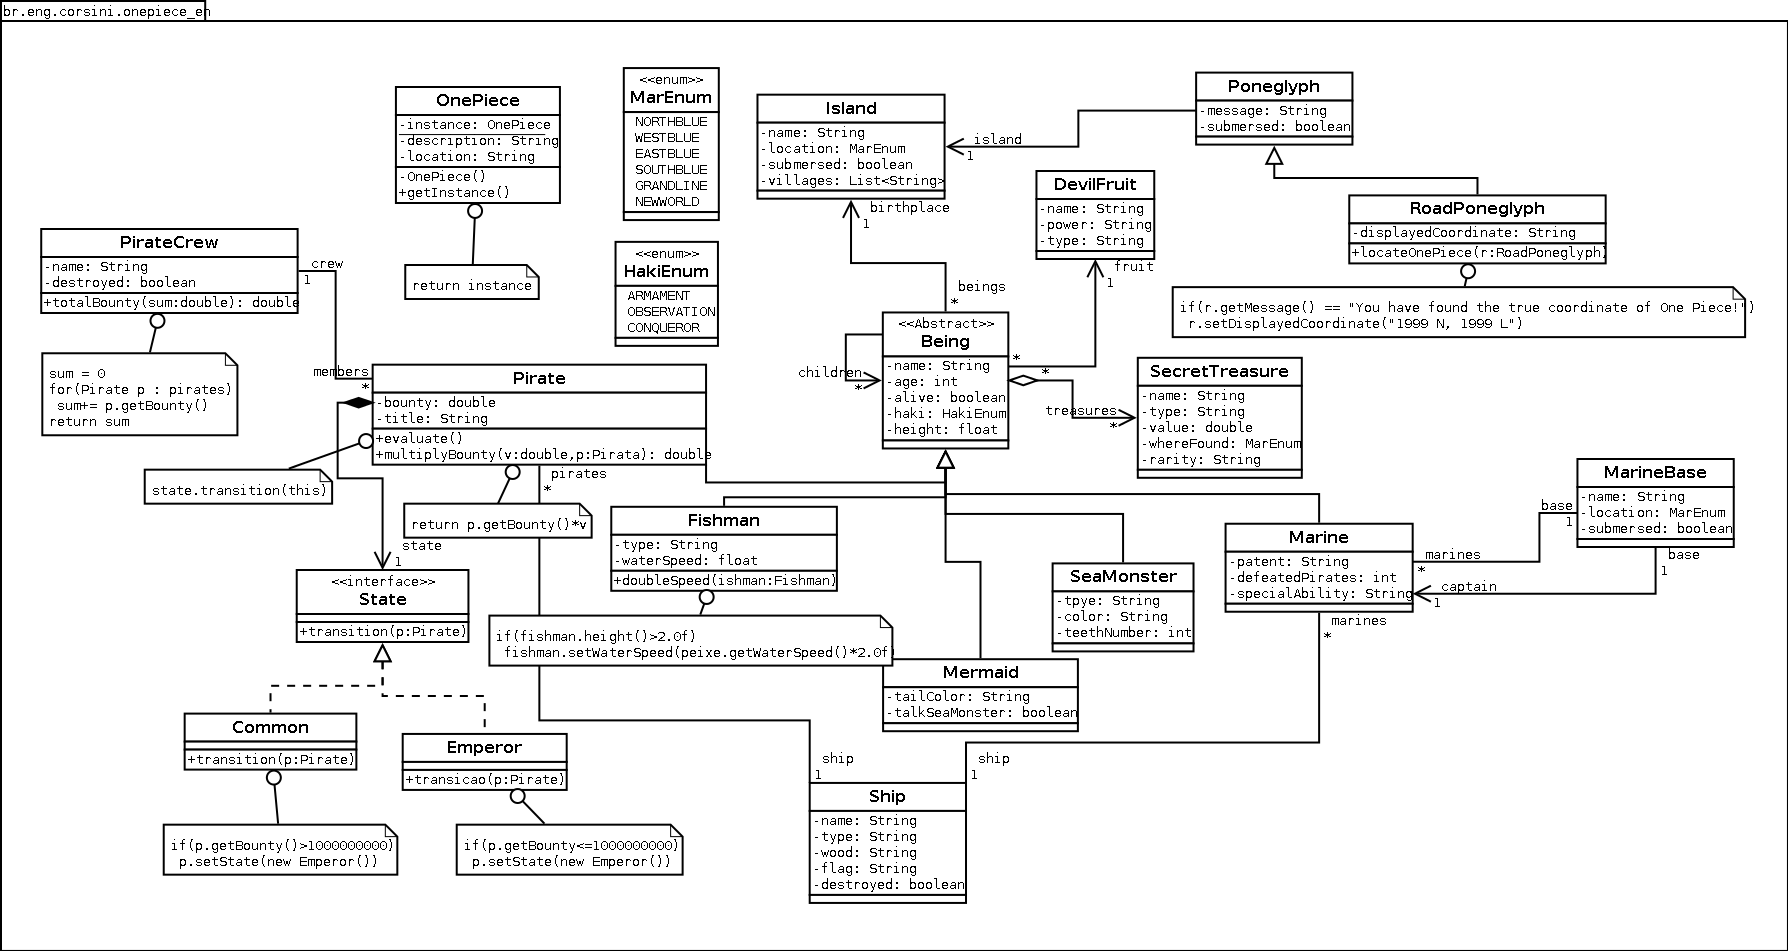
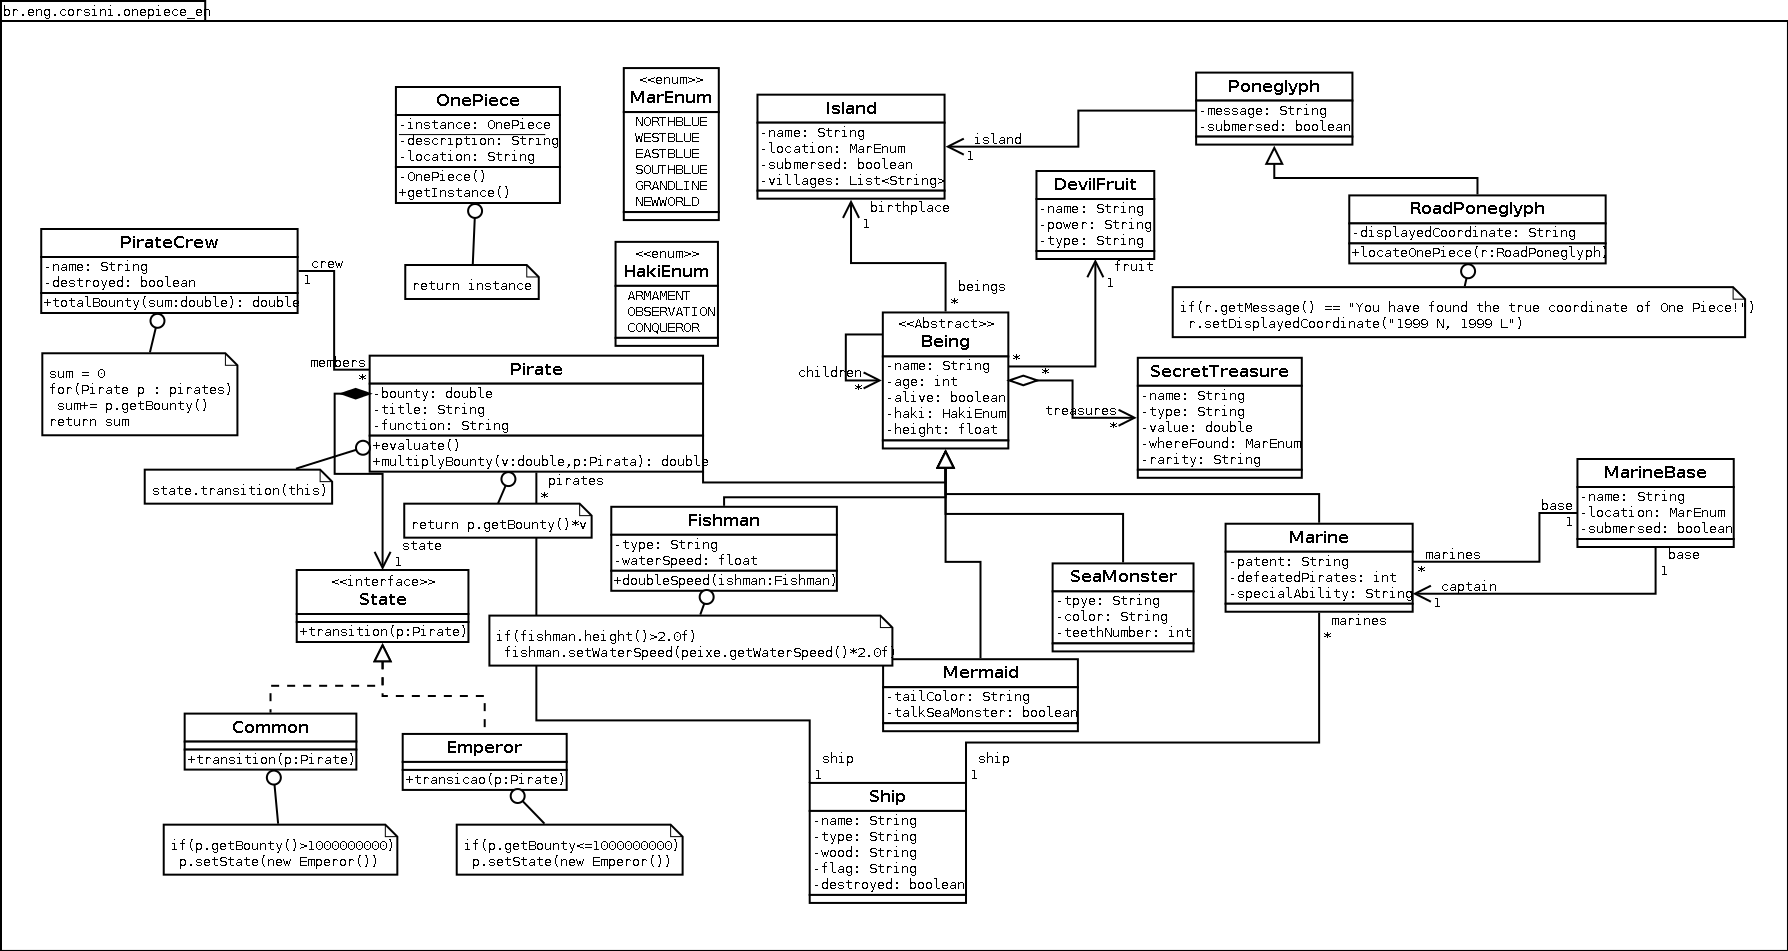
adding attribute to Pirate class

Changed region(s): [[0.1846, 0.3659, 0.3999, 0.5184], [0.2768, 0.5794, 0.3076, 0.6404], [0.2768, 0.7014, 0.3076, 0.7319]]

diff --git a/src/main/java/br/eng/corsini/onepiece_ptbr/Pirata.java b/src/main/java/br/eng/corsini/onepiece_ptbr/Pirata.java
@@ -5,6 +5,7 @@ public class Pirata extends Ser{
     private Embarcacao embarcacao;
     private String titulo;
     private TripulacaoPirata tripulacao;
+    private String funcao;
     private Estado estado = new Comum();
     public double multiplicarRecompensa(Pirata p, double v){
         return p.getRecompensa()*v;
@@ -44,5 +45,11 @@ public class Pirata extends Ser{
     }
     public void setEstado(Estado estado) {
         this.estado = estado;
+    }
+    public String getFuncao() {
+        return funcao;
+    }
+    public void setFuncao(String funcao) {
+        this.funcao = funcao;
     }
 }

diff --git a/src/main/java/br/eng/corsini/onepiece_en/Pirate.java b/src/main/java/br/eng/corsini/onepiece_en/Pirate.java
@@ -5,6 +5,7 @@ public class Pirate extends Being{
     private Ship ship;
     private String title;
     private PirateCrew crew;
+    private String function;
     private State state = new Common();
     public double multiplyBounty(Pirate p, double v){
         return p.getBounty()*v;
@@ -42,6 +43,12 @@ public class Pirate extends Being{
     }
     public void setState(State state) {
         this.state = state;
+    }
+    public String getFunction() {
+        return function;
+    }
+    public void setFunction(String function) {
+        this.function = function;
     }
 
 }
